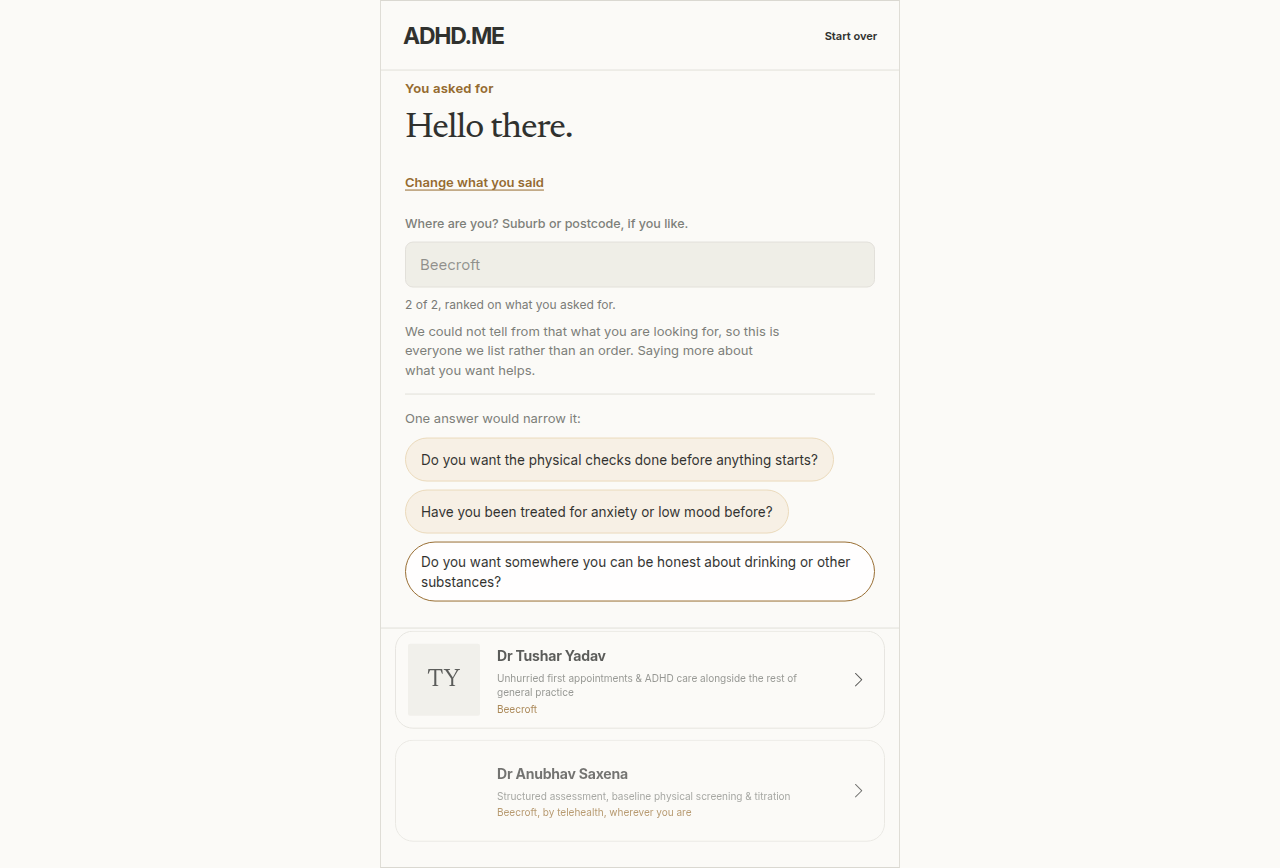
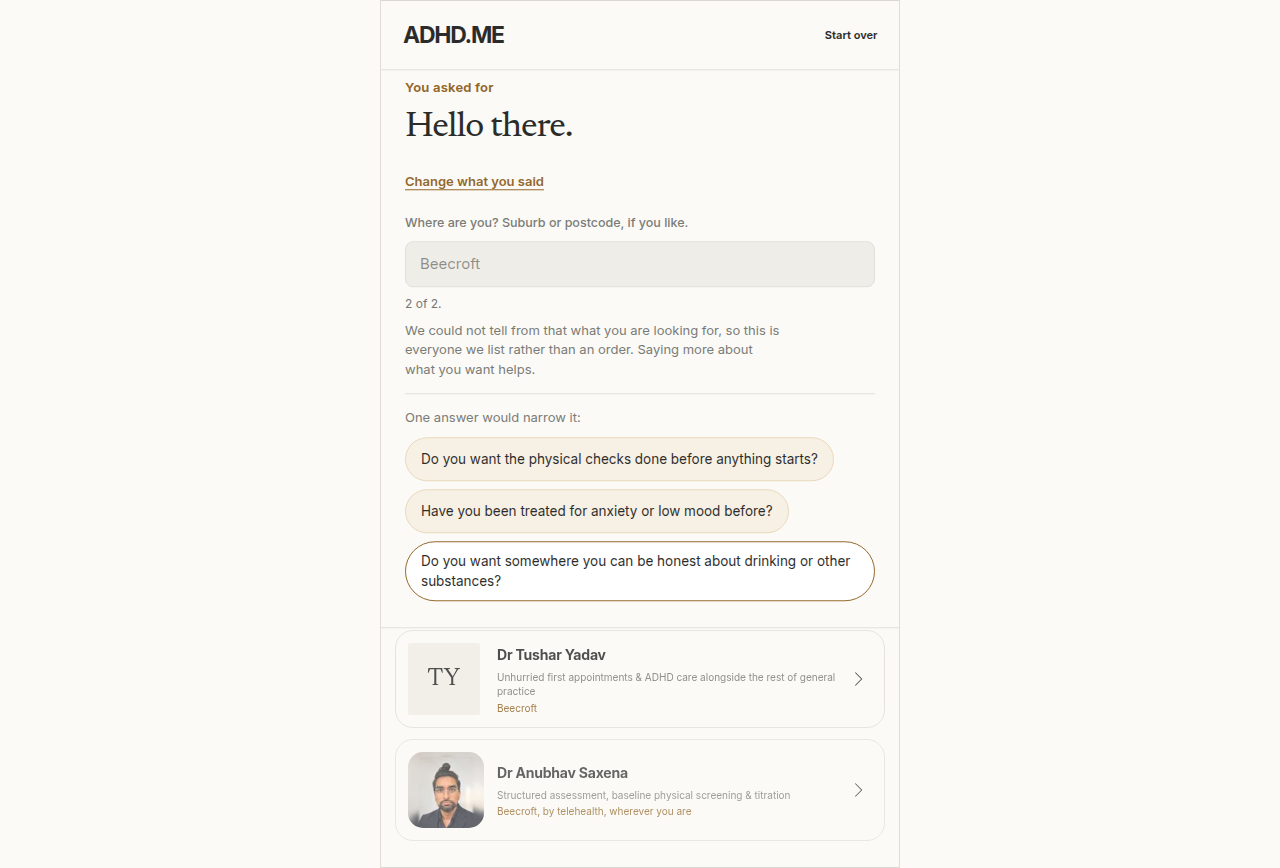
O11: minimalism review of the matching surfaces - one contradiction fixed, the rest holds
Reviewed every UI matching renders through (finder results, clarifier,
profile, listening; console audit) against the qa/matching-o10
screenshots. The surfaces are spare and the eleven-to-seven screen
collapse is holding; one real defect found, in pixels:

The count line claimed 'ranked on what you asked for' two lines above
the banner saying 'this is everyone we list rather than an order' -
two sentences about the same fact, one false. It now claims a ranking
only when matchQuality is informed; otherwise the count stands alone.
The nearest-first variant is exempt: since O3 an unmatched query with
an origin genuinely is distance-sorted, so it is true in every state.

Review record in design-qa.md; screenshots refreshed by re-running the
verification spec (6/6 green).

Vault log skipped: Stefan-Brain unreachable from this session.

Claude-Session: https://claude.ai/code/session_01TVamNq6Z6TcjKFmyw63W9E

diff --git a/app/care-finder.tsx b/app/care-finder.tsx
@@ -708,12 +708,21 @@ export function CareFinder() {
                 </datalist>
                 <p className="place-status" role="status">
                   {/* Says how many are SHOWN, not how many exist. "16 GPs" above a list of five
-                      is a number that describes something the reader cannot see. */}
+                      is a number that describes something the reader cannot see. And it only
+                      claims "ranked on what you asked for" when that is TRUE (O11): on an
+                      unmatched or tied query this line used to assert a ranking two lines above
+                      the banner saying there is no ranking — two sentences about the same fact,
+                      one of them false. When the order is not earned, the count stands alone and
+                      the quality banner owns the explanation. */}
                   {place.trim() === ""
-                    ? `${shown.length} of ${matches.length}, ranked on what you asked for.`
+                    ? quality === "informed"
+                      ? `${shown.length} of ${matches.length}, ranked on what you asked for.`
+                      : `${shown.length} of ${matches.length}.`
                     : origin
                       ? `${shown.length} of ${matches.length}, nearest to ${origin.suburb} first.`
-                      : "We do not cover that one yet, so these are ranked on what you asked for."}
+                      : quality === "informed"
+                        ? "We do not cover that one yet, so these are ranked on what you asked for."
+                        : "We do not cover that one yet."}
                 </p>
 
                 {/* WHEN THE ORDER IS NOT EARNED, SAY SO.

diff --git a/design-qa.md b/design-qa.md
@@ -60,3 +60,47 @@ Post-fix evidence:
 ## Final result
 
 final result: passed
+
+# Minimalism review — matching surfaces (O11, 2026-08-18)
+
+Scope: every UI the matching pipeline renders through — the finder's results, clarifier,
+profile and listening screens (`app/care-finder.tsx`) and the console's matching audit
+(`app/console/matching/page.tsx`). Reviewed against the screenshots in `qa/matching-o10/`.
+
+## Verdict
+
+The surfaces are already spare: one field, one dual-function control, one count line, one
+quality banner that only renders when it has something to add, rows that carry exactly one
+distinguishing reason each. The earlier collapse (eleven screens to seven) is holding. One
+real defect and no removable elements were found.
+
+## The defect, fixed
+
+- **The count line claimed a ranking beside the banner denying one.** On an unmatched query
+  the screen read "2 of 2, ranked on what you asked for." two lines above "this is everyone
+  we list rather than an order." — two sentences about the same fact, one false. The count
+  line now claims "ranked on what you asked for" only when `matchQuality` is `informed`;
+  otherwise the count stands alone and the quality banner owns the explanation. (The
+  nearest-first variant is exempt: since O3, an unmatched query with an origin genuinely IS
+  distance-sorted, so that sentence is true in every quality state.)
+
+## Reviewed and kept, with reasons
+
+- **Quality banner + clarifier block stacking** (unmatched state shows both): not
+  duplication — the banner says what happened, the questions are the way out. Removing
+  either orphans the other.
+- **Top-tie note (O3)**: renders only when `informed` with a tied first band, which the
+  quality banner cannot say; never stacks with it.
+- **Closed-books line (O4)**: one sentence, only on affected rows, only claiming fit when
+  fit exists (Codex P2 fix).
+- **Profile**: eyebrow flips between "Why this fit" / "About this GP" on evidence; signal
+  pills deduplicate against the row reasons; no repeated sentence found.
+- **Console audit table**: the O2 "Declares" column and O8 "books closed" tag each add one
+  cell of operator-facing fact; the table remains the only place scores render.
+
+## Evidence
+
+`qa/matching-o10/*.png` (before), refreshed after the count-line fix by re-running
+`e2e/matching-verification.spec.ts`.
+
+final result: passed, one fix applied
